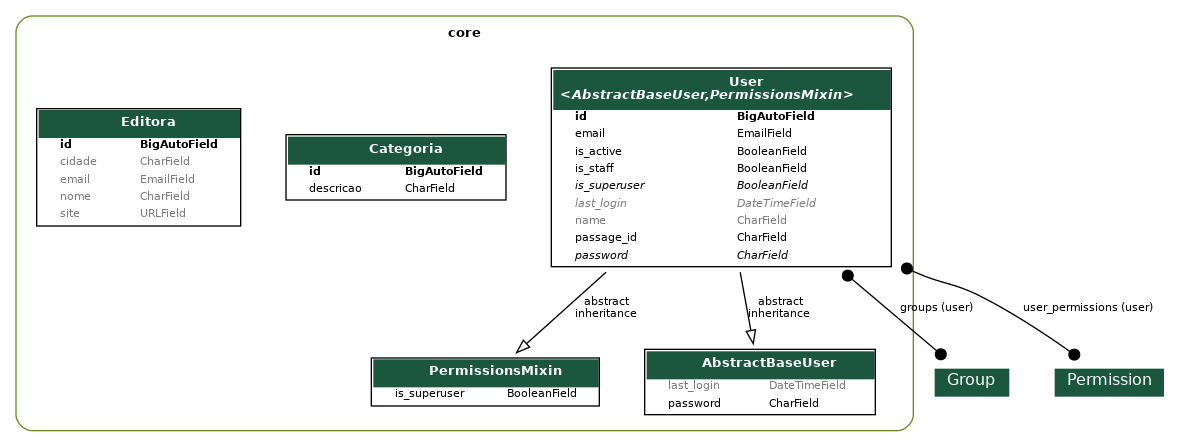
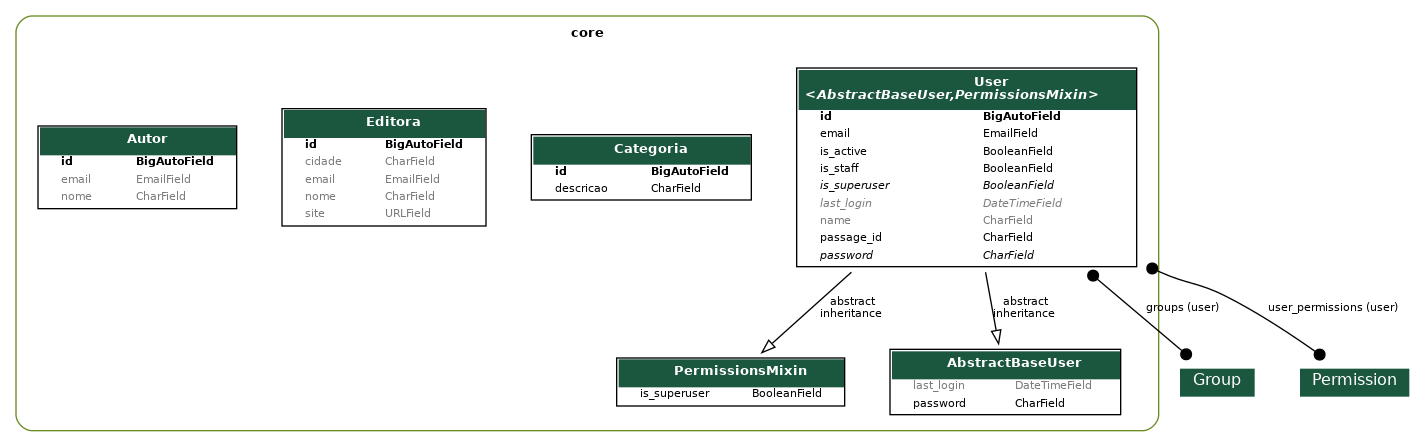
feat: criação da API para Autor.

diff --git a/core/migrations/0007_autor.py b/core/migrations/0007_autor.py
@@ -1,0 +1,21 @@
+# Generated by Django 5.1.7 on 2025-04-04 18:01
+
+from django.db import migrations, models
+
+
+class Migration(migrations.Migration):
+
+    dependencies = [
+        ('core', '0006_editora'),
+    ]
+
+    operations = [
+        migrations.CreateModel(
+            name='Autor',
+            fields=[
+                ('id', models.BigAutoField(auto_created=True, primary_key=True, serialize=False, verbose_name='ID')),
+                ('nome', models.CharField(blank=True, max_length=100, null=True)),
+                ('email', models.EmailField(blank=True, max_length=100, null=True)),
+            ],
+        ),
+    ]

diff --git a/app/urls.py b/app/urls.py
@@ -7,13 +7,15 @@ from drf_spectacular.views import (
 )
 from rest_framework.routers import DefaultRouter
 
-from core.views import EditoraViewSet, UserViewSet, CategoriaViewSet
+from core.views import AutorViewSet, EditoraViewSet, UserViewSet, CategoriaViewSet
 
 router = DefaultRouter()
 
 router.register(r'categorias', CategoriaViewSet, basename='categorias' )
 router.register(r'usuarios', UserViewSet, basename='usuarios')
 router.register(r'editoras', EditoraViewSet, basename='editoras')
+router.register(r'autores', AutorViewSet, basename='autores')
+
 
 urlpatterns = [
     path('admin/', admin.site.urls),

diff --git a/core/serializers/autor.py b/core/serializers/autor.py
@@ -1,0 +1,12 @@
+from attr import fields
+from pydantic import field_serializer
+from rest_framework.serializers import ModelSerializer
+
+from core.models import autor
+
+
+class AutorSerializer(ModelSerializer):
+    class Meta:
+        model = autor
+        fields = '__all__'
+        depth = 1

diff --git a/core/views/autor.py b/core/views/autor.py
@@ -1,0 +1,9 @@
+from rest_framework.viewsets import ModelViewSet
+
+
+from core.models import Autor
+from core.serializers import AutorSerializer
+
+class AutorViewSet(ModelViewSet):
+    queryset = Autor.objects.all()
+    serializer_class = AutorSerializer

diff --git a/core/models/autor.py b/core/models/autor.py
@@ -1,0 +1,7 @@
+import email
+from django.db import models
+
+
+class Autor(models.Model):
+    nome = models.CharField(max_length=100, blank=True, null=True)
+    email = models.EmailField(max_length=100, blank=True, null=True)

diff --git a/core/models/editora.py b/core/models/editora.py
@@ -9,4 +9,4 @@ class Editora(models.Model):
     site = models.URLField(max_length=200, blank=True, null=True)
 
     def __str__(self):
-        return f"({self.id}) {self.descricao}"
+        return f"({self.id}) {self.nome}"

diff --git a/core/admin.py b/core/admin.py
@@ -54,3 +54,4 @@ class UserAdmin(BaseUserAdmin):
 admin.site.register(models.User, UserAdmin)
 admin.site.register(models.Categoria)
 admin.site.register(models.Editora)
+admin.site.register(models.Autor)

diff --git a/core/serializers/__init__.py b/core/serializers/__init__.py
@@ -1,3 +1,4 @@
 from .user import UserSerializer
 from .categoria import CategoriaSerializer
 from .editora import EditoraSerializer
+from .autor import AutorSerializer

diff --git a/core/views/__init__.py b/core/views/__init__.py
@@ -1,3 +1,4 @@
 from .user import UserViewSet
 from .categoria import CategoriaViewSet
 from .editora import EditoraViewSet
+from .autor import AutorViewSet

diff --git a/core/models/__init__.py b/core/models/__init__.py
@@ -1,3 +1,4 @@
 from .user import User
 from .categoria import Categoria
 from .editora import Editora
+from .autor import Autor
